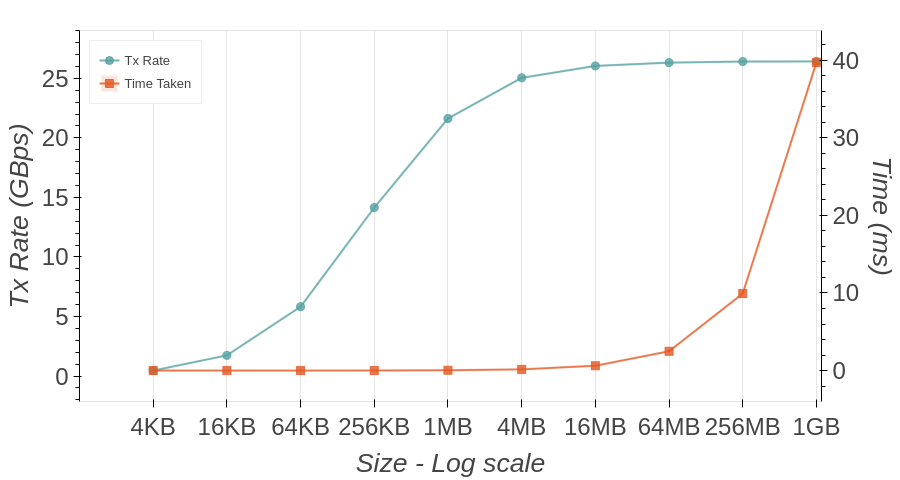
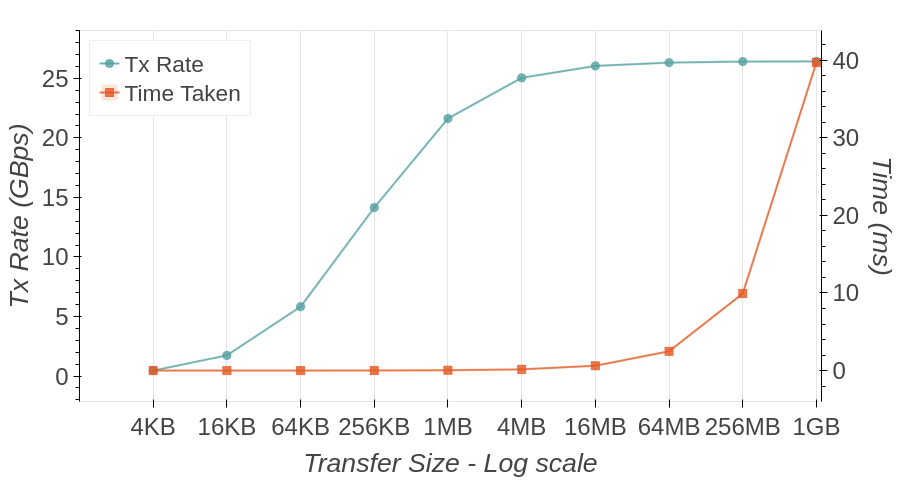
Address Margo's comments

Changed region(s): [[0.3422, 0.9375, 0.6844, 1.0], [0.0933, 0.0938, 0.28, 0.2188]]

diff --git a/chapters/interconnect-sc/store-ops/challenges.tex b/chapters/interconnect-sc/store-ops/challenges.tex
@@ -4,17 +4,18 @@
 
 \subsubsection{Determining the right PCIe resource and instruction combination}
 
-Of the transaction types outlined in \Cref{tab:pcie-transaction-types}, a software application can only generate configuration read and write and memory read and write on a modern system that only has PCIe devices
+Of the transaction types outlined in \Cref{tab:pcie-transaction-types}, a software application can generate only configuration read and write and memory read and write on a modern system that only has PCIe devices
 \footnote{I/O reads and writes may be available if a legacy PCI device is attached.
 The software application does not control messages and Completions and, hence, can not be generated directly by the adversary.}.
-However, exploring only memory reads and writes as transactions an attacker can use is sufficient. 
-Memory reads, configuration reads, and configuration writes are non-posted transactions that follow the same ordering rule and, hence, would have the same behaviour on the interconnect.
+However, as memory reads, configuration reads, and configuration writes are all non-posted transactions, they all exhibit the same behaviour.
+As such, exploring only memory reads suffices for exploring all non-posted transactions.
+Similarly, exploring memory writes as transactions that an attacker can use suffices to explore all posted transactions. 
+
 
 To profile the execution time of memory \textit{load} and \textit{store} instructions, we use a program that follows the pseudocode outlined in \Cref{lst:pcie-mem-reads-v-writes}.
 As we can see in \Cref{fig:pcie-mem-reads-v-writes}, the execution time of memory loads (and consequently, non-posted transactions) increases linearly with the number of memory loads issued.
 Each \textit{load} instruction takes about 2000 cycles, which is 625ns on a processor with a base clock of 3.2GHz.
-Most of the 625ns latency is composed of PCIe transfer time \cite{neugebauer2018understanding}.
-This is because a \textit{load} operation has to wait for a previous \textit{load} operation to complete 
+Most of the 625ns latency is composed of PCIe transfer time \cite{neugebauer2018understanding}, because a \textit{load} operation has to wait for a previous \textit{load} operation to complete 
 \footnote{While this is not enforced by PCIe ordering rules, it may be enforced by the proprietary PCIe controller implementation.}.
 Since each \textit{load} instruction must wait for the previous one to complete, the attacker cannot guarantee a packet is always ready in the PCIe controller for transmission when the victim is simultaneously transmitting.
 However, a memory store (and hence a posted transaction) does not have to wait for a previous store to complete.
@@ -22,9 +23,10 @@ As such, we determine that memory stores are the correct type of transaction for
 
 \begin{figure}[!htb]
     \centering
-    \includegraphics[width=0.8\columnwidth]{figures/interconnect-sc/store-ops/pcie_mem_reads_v_writes.png}
+    \includegraphics[width=\columnwidth]{figures/interconnect-sc/store-ops/pcie_mem_reads_v_writes.png}
     \caption{Comparison: PCIe memory reads vs writes}
     \label{fig:pcie-mem-reads-v-writes}
+    % 2025-03-01_15-15
 \end{figure}
 
 \begin{minipage}{\textwidth}
@@ -45,8 +47,8 @@ To fix this, the attacker needs a mechanism that can issue as many \textit{store
 
 To measure the completion time of a \textit{store} operation which is issued out-of-order, we make use of two key insights:
 
-\textit{First}, the CPU core would need to keep track of all instructions executed out-of-order so that they are retired in program order.
-Keeping this track would require a scheduler and a buffer in the hardware, which would have a limited and fixed size.
+\textit{First}, the CPU core needs to keep track of all instructions executed out-of-order so that they are retired in program order.
+Keeping track of this requires a scheduler and a buffer in the hardware, which would have a limited and fixed size.
 The AMD CPU has four schedulers as described in \Cref{subsubsec:interconnect-sc-background-cpu-arch-pipelines}. Each scheduler has a fixed number of instruction slots, $size_{sched}$
 \footnote{AMD Zen 3 schedulers have $\sim$22-24 slots per scheduler \cite{gast2023squip}.}.
 In addition, for tracking \textit{load} and \textit{store} operations that are in flight, the CPU also has a load-store queue (LSQ), with a fixed number of slots for loads ($size_{ldq} = 72$) and for stores ($size_{stq} = 64$) \cite{amd_7003_software_optimization_guide}.
@@ -65,7 +67,7 @@ As the AMD CPU can issue 2 \textit{store} instructions per cycle \cite{amd_7003_
 For $size_{sched} = 24$ and $size_{stq} = 64$, $t_{cpu} = 68~cycles$.
 % \footnote{Hence, if $size_{sched} = 24$, $N = 3 * 24 + 64 = 136$, and $t_{cpu} = N/2 = 68~cycles$.}.
 
-Now, after the initial $N$ stores, if we issue a continuous stream of (\textit{timer}...\textit{store}) pairs, the \textit{timer} from the pair will only be executed once a previous \textit{store} retires.
+Now, after the initial $N$ stores, if we issue a continuous stream of (\textit{timer}...\textit{store}) pairs, the \textit{timer} from the pair will be executed only after a previous \textit{store} retires.
 As this \textit{timer} instruction will be executed immediately (out of order with the other stores), the \textit{store} in this pair will almost immediately occupy the now available scheduler slot, blocking the next \textit{timer}.
 Thus, the difference in the results of the two \textit{timer} instructions reflects the variation in retirement times of consecutive \textit{store} instructions.
 As the retirement times of the \textit{store} instructions are impacted by the PCIe transaction time, the attacker can use this mechanism to determine the presence or absence of victim traffic on PCIe.

diff --git a/chapters/interconnect-sc/background/cpu-arch.tex b/chapters/interconnect-sc/background/cpu-arch.tex
@@ -2,8 +2,8 @@
 \label{subsec:interconnect-sc-background-cpu-arch}
 
 Modern CPUs have many components, including execution units, caches, PCIe root complex, and DRAM controllers.
-Some subset of these components is always traversed when data is sent to or from the CPU to the PCIe endpoints.
-The behaviour of each component may impact how the side-channel attack is carried out.
+Some subset of these components is always traversed when data is sent between the CPU and PCIe endpoints.
+The behaviour of each component determines how a side-channel attack can be perpetrated.
 As such, it becomes necessary to understand all the components involved in a PCIe transaction.
 
 \begin{figure}[!htb]
@@ -16,8 +16,8 @@ As such, it becomes necessary to understand all the components involved in a PCI
 
 \Cref{fig:amd-cpu} shows a high-level overview of the architecture of the AMD EPYC Zen 3 processors.
 The figure shows the following components:
-\textbf{1) I/O:} The component that handles the input-output from the peripheral devices. This is where the PCIe communication happens.
-\textbf{2) UMC:} The Unified Memory Controller is the controller that communicates with the DRAM.
+\textbf{1) I/O:} The component that handles input-output from the peripheral devices. This is where PCIe communication happens.
+\textbf{2) UMC:} The Unified Memory Controller is the controller that communicates with DRAM.
 \textbf{3) CCD:} The Core Complex Dies are where the cores (execution units) and caches reside.
 \textbf{4) Infinity Fabric ($\infty$):} The interconnect that connects all of the components within the AMD CPU.
 
@@ -27,17 +27,17 @@ The figure shows the following components:
 Modern CPUs rely on executing multiple instructions simultaneously to maximise performance.
 To achieve this, the CPUs have a multi-stage pipeline with the following stages: 1) Fetch, 2) Decode, 3) Schedule and Execute, and 4) Retire.
 We provide a simplified view of the pipeline in the CPU cores of the AMD~EPYC~Zen~3 processors in \Cref{fig:amd-core} and a brief description of each of the stages below:\\
-\textbf{Fetch: } This stage fetches the next macro-op from the cache or the memory. 
+\textbf{Fetch: } This stage reads the next macro-op from the cache or the memory. 
 However, the next macro-op to be fetched may not be deterministic, given the program may contain branches. 
 In such cases, this stage also uses branch prediction to speculate on which instruction may be executed next and fetch that instruction.\\
-\textbf{Decode: } This stage involved decoding the fetched macro-op into one or more micro-ops, which are then forwarded to the next stages.\\
+\textbf{Decode: } This stage decomposes the fetched macro-op into the proper set of micro-operations, which are then forwarded to the next stages.\\
 \textbf{Schedule and Execute: } The scheduler(s) determine which instruction can be executed next based on the availability of the data that the instruction requires. 
 This ensures that a long-running instruction (e.g., where the data is unavailable) does not stall all other independent instructions that can be executed.
 As such, instructions here can be executed out of program order. 
 Once the instruction has finished execution and the output (if any) is available in the registers, the instruction is removed from the scheduler.
 As load and store are common but time-consuming instructions, this stage also consists of a load-store queue where pending load and store operations are held. \\
 % \footnote{In Zen 3 cores, the load/store unit has a capacity of 72 loads and 64 stores.}. \\
-\textbf{Retire: } This stage ensures that instructions are retired in the program order so that the program can remain oblivious to the out-of-order execution that occurred in the previous stage.
+\textbf{Retire: } This stage ensures that instructions are completed in the program order so that the program can remain oblivious to the out-of-order execution that occurred in the previous stage.
 
 \begin{figure}[!htb]
     \centering
@@ -49,7 +49,7 @@ As load and store are common but time-consuming instructions, this stage also co
 \subsubsection{PCIe transactions to/from CPU}
 \label{subsubsec:interconnect-sc-background-cpu-arch-pcie-transactions}
 
-A program running on the CPU can transfer data to the PCIe device/endpoint in two significant ways: 1) Memory operations via memory-mapped IO (MMIO) and 2) Direct memory access (DMA).
+A program running on the CPU can transfer data to the PCIe device/endpoint in two different ways: 1) Memory operations via memory-mapped IO (MMIO) and 2) Direct memory access (DMA).
 MMIO enables the CPU to map some memory region of the PCIe endpoint in the CPU's physical address space.
 Any process with the proper permissions can then map this memory within the process and perform normal \textit{load} or \textit{store} operations on this memory.
 However, this approach requires the execution units of the CPU to issue repeated \textit{load/store} instructions to copy data to the PCIe endpoint.

diff --git a/chapters/interconnect-sc/background/pcie.tex b/chapters/interconnect-sc/background/pcie.tex
@@ -1,10 +1,10 @@
 \subsection{PCIe}
 \label{subsec:interconnect-sc-background-pcie}
 
-Peripheral component interconnect express (PCIe) is a high-speed, low-latency packet-based communication protocol that connects peripherals like GPUs, FPGAs, storage devices, and networking devices to the CPU. 
+Peripheral component interconnect express (PCIe) is a high-speed, low-latency packet-based communication protocol that connects peripherals such as GPUs, FPGAs, storage devices, and networking devices to the CPU. 
 To support high bandwidth and low latency, PCIe supports multiple lanes, where each lane can send data in both directions.
 Most PCIe implementations support 1, 2, 4, 8, or 16 lanes, represented as PCIe x1 - x16
-\footnote{PCIe x32 exists but is rarely utilised in commercial systems.}.
+\footnote{PCIe x32 exists but is rarely used in commercial systems.}.
 
 The PCIe standard has evolved through multiple generations, each offering increased data transfer rates and improved efficiency for computing, networking, and storage applications.
 Each major revision of the PCIe standard doubles the bandwidth supported by PCIe.
@@ -13,9 +13,9 @@ While PCIe 6.0 continues this trend, it also adds many newer features, such as 2
 PCIe 6.0 also introduces data encryption for data in transit on the PCIe interconnect
 \footnote{Very few PCIe 5.0 devices are currently available in the market, and PCIe 6.0 is unavailable}.
 
-As PCIe protocol enables communication between the CPU and peripherals, it requires hardware support from the CPU in the form of the CPU's PCIe root complex.
+As the PCIe protocol enables communication between the CPU and peripherals, it requires hardware support from the CPU in the form of the CPU's PCIe root complex.
 However, as the PCIe root complex resides on the CPU die, providing an arbitrarily large number of PCIe lanes originating from the CPU to support an arbitrarily large number of peripheral devices becomes challenging.
-To alleviate this problem, PCIe utilises either a PCIe Switch or a platform controller hub (PCH) to form a tree-like topology.
+To alleviate this problem, PCIe uses either a PCIe Switch or a platform controller hub (PCH) to form a tree-like topology.
 A PCIe switch has one upstream port that connects to either the CPU's root complex or another PCIe switch but has multiple downstream ports, each of which can consist of more PCIe switches or endpoints to connect the peripherals.
 A PCH is usually integrated within the CPU and provides PCIe access to slower endpoints such as storage, USB ports, and slow network cards such as the one built into the motherboard.
 
@@ -26,13 +26,13 @@ A PCH is usually integrated within the CPU and provides PCIe access to slower en
     \label{fig:pcie-controller}
 \end{figure}
 
-Like network protocols, PCIe utilises a layered architecture consisting of the transaction, data link, and physical layers, which are implemented in a PCIe controller (see \Cref{fig:pcie-controller}).
+Like network protocols, PCIe uses a layered architecture consisting of the transaction, data link, and physical layers, which are implemented in a PCIe controller (see \Cref{fig:pcie-controller}).
 PCIe provides reliable transfer semantics in the data link layer, which relies on cyclic redundancy check (CRC) to detect errors and uses acknowledgements (ACKs) or negative acknowledgements (NACKs) to inform the sender to re-transmit failed packets.
 The transaction layer of PCIe supports a fixed set of transactions (see \Cref{tab:pcie-transaction-types}), each of which is one of the following three types:
 \textbf{Posted:} Transactions where no response is issued or expected. 
 \textbf{Non-posted:} Transactions where a response is required. 
 \textbf{Completions:} The response of a previous non-posted transaction.
-PCIe enforces strict ordering rules for each type, which we outline in \Cref{tab:pcie-transaction-ordering-rules}.
+PCIe enforces ordering rules for each type, which we outline in \Cref{tab:pcie-transaction-ordering-rules}.
 
 \begin{table}[!htb]
     \centering

diff --git a/chapters/interconnect-sc/store-ops.tex b/chapters/interconnect-sc/store-ops.tex
@@ -4,17 +4,19 @@
 There are two primary ways one can generate traffic on the PCIe link.
 1) CPU \textit{load} or \textit{store} instructions on memory-mapped PCIe configuration, device memory, or I/O address space, and 
 2) direct memory access (DMA) to copy data between the PCIe device memory and the DRAM.
-In this section, we discuss how to use CPU instructions to generate the traffic and defer the discussion of generating traffic via DMA to \Cref{sec:interconnect-sc-dma}.
-In this section, we also answer \textbf{RQ1}, ``Is it possible to create contention in PCIe links without the adversary saturating the PCIe bandwidth?''.
+We now discuss how to use CPU instructions to generate the traffic and defer the discussion of generating traffic via DMA to \Cref{sec:interconnect-sc-dma}.
+We also answer \textbf{RQ1}, ``Is it possible to create contention in PCIe links without the adversary saturating the PCIe bandwidth?''.
 
 An adversary can generate traffic from the CPU by mapping a PCIe device resource to an application running on the CPU and issuing load or store operations on the mapped memory.
 Each load/store operation will be buffered in the PCIe controller until a transaction layer packet (TLP) is generated and ready to be transmitted.
 Two factors influence the actual transmission time of the packet:
 1) The ordering of the packets, as outlined in \Cref{tab:pcie-transaction-ordering-rules}, and
 2) The number of pending packets in the PCIe controller buffer that are not subject to any ordering rules relative to the current packet.
-If the packets do not have any relative ordering rule, it is reasonable to assume that the controller follows a first come, first serve policy.
-As such, any packet generated by the adversary can either be delayed due to existing traffic in the buffer or not, as there is no traffic in the buffer.
-This allows the attacker to observe the presence or absence of victim traffic without necessarily saturating the PCIe bandwidth.
+Suppose the packets do not have any relative ordering rule. 
+In that case, the ordering of the packets is solely dependent on the scheduling algorithm of the PCIe controller and can not be influenced by the attacker.
+As such, any packet generated by the adversary can be delayed due to existing traffic in the buffer based on the controller's scheduling policy and the ordering rules.
+If there is no traffic in the buffer, the adversary's packets will not be delayed.
+As a result, the attacker can detect the presence or absence of victim traffic without saturating PCIe bandwidth if the PCIe controller schedules packets without ordering constraints using a first-in-first-out (FIFO) or similar policy.
 
 To observe the victim traffic, the attacker should ensure they have a packet pending in the PCIe controller as frequently as possible.
 This ensures that the attacker can observe the presence or absence of victim traffic at a fine granularity.
@@ -25,4 +27,3 @@ To achieve these goals, the attacker must determine the correct combination of t
 \input{chapters/interconnect-sc/store-ops/challenges}
 \input{chapters/interconnect-sc/store-ops/measuring-store-time}
 % \input{chapters/interconnect-sc/store-ops/evaluation}
- 

diff --git a/chapters/interconnect-sc/background/side-channels-in-interconnects.tex b/chapters/interconnect-sc/background/side-channels-in-interconnects.tex
@@ -2,22 +2,22 @@
 \label{subsec:interconnect-sc-background-side-channels}
 
 Conceptually, a side-channel attack in interconnects is similar to a side-channel attack in internet networks. 
-The attacker creates congestion on a buffer in the communication path between the host (CPU) and the peripheral (e.g. GPU), such as the Rx/Tx buffers in the transaction layer implementation of the PCIe controller (see \Cref{fig:pcie-controller}).
+The attacker creates congestion on a buffer in the communication path between the host (CPU) and the peripheral (e.g., GPU), such as the Rx/Tx buffers in the transaction layer implementation of the PCIe controller (see \Cref{fig:pcie-controller}).
 The attacker then observes the delay in transmitting their traffic.
 This delay will be proportional to the data the victim transfers, which would help the attacker gain insight into the victim's traffic shape.
 
 However, a few differences between interconnects and traditional networks make it challenging to implement such an attack. \\
-\textit{First}, The bandwidth of interconnects like PCIe is at least an order of magnitude higher than that of internet networks.
+First, The bandwidth of interconnects such as PCIe are at least an order of magnitude higher than that of internet networks.
 While a typical bandwidth in an internet network is between 0.125 - 1.25 GBps 
 \footnote{Internet network bandwidth is typically measured in bits per second, while for interconnects, it is measured in bytes per second. Typical internet bandwidth is 1-10 Gbits per second.},
 PCIe 4.0 can operate at a rate of 32GBps.
-The high bandwidth makes it non-trivial to saturate the PCIe link. \\
-\textit{Second}, latency in PCIe is at least three orders of magnitude smaller than that of internet networks.
+The high bandwidth makes it difficult to saturate the PCIe link. \\
+Second, latency in PCIe is at least three orders of magnitude smaller than that of internet networks.
 Typically, internet latency is measured in milliseconds, while PCIe latency is measured in hundreds of nanoseconds to microseconds.
 The low latency makes it difficult for the attacker to measure the delays accurately. \\
-\textit{Third}, unlike internet networks, PCIe does not extend outside the machine of the host CPU.
+Third, unlike internet networks, PCIe does not extend outside the machine of the host CPU.
 This further adds to the challenge that the attacker needs to co-locate with the victim application on the same machine. \\
-\textit{Fourth}, the PCIe protocol has a fixed behaviour depending on the type of transaction.
+Fourth, the PCIe protocol has a fixed behaviour depending on the type of transaction.
 The attacker can not craft their own packets and can not change how the hardware issues the PCIe transactions.
 % Most transaction types can not generate enough traffic to even come close to saturating the bandwidth of PCIe. 
 % While saturating the bandwidth may not be necessary to create a side-channel attack, it would be useful if there is always at least one attacker packet in the buffer whenever the victim might transmit.

diff --git a/chapters/interconnect-sc/dma/challenges.tex b/chapters/interconnect-sc/dma/challenges.tex
@@ -4,7 +4,7 @@
 \subsubsection{Trade-off between small vs large DMA transfers}
 \label{subsubsec:interconnect-sc-dma-challenges-trade-off-small-v-large-tx}
 
-Since DMA controllers only provide the completion time of an entire DMA transfer, the adversary faces a trade-off when selecting the transfer size. 
+Since DMA controllers provide only the completion time of an entire DMA transfer, the adversary faces a trade-off when selecting the transfer size. 
 Small transfers enable fine-grained measurements of the presence/absence of victim traffic but cannot saturate a non-hierarchical PCIe link. 
 In contrast, large transfers provide coarse-grained measurements but may be able to saturate a non-hierarchical PCIe link, increasing the likelihood of interfering with the victim traffic.
 To determine the appropriate transfer size, we profile the execution time and bandwidth utilisation of PCIe across different DMA transfer sizes.
@@ -24,10 +24,10 @@ We measure the DMA transfer time using \textit{cudaEventRecord}, which uses a ti
 % However, \textit{cudaEventRecord} uses the timer from the GPU, which only has a granularity in the order of microseconds.
 % In addition, \textit{cudaEventRecord} returns the timer as a floating point number in the order of milliseconds, adding to the inaccuracy of the timer.
 
-As shown in \Cref{fig:bw-util-and-time-per-size}, the transfer time increases with the transfer size, while the transfer rate does not increase beyond 25GBps
+As shown in \Cref{fig:bw-util-and-time-per-size}, the transfer time increases with the transfer size, while the transfer rate never exceeds 25Gbps
 \footnote{While the theoretical limit of PCIe 4.0 x16 is 32GBps, the achievable transfer rate is less due to the protocol overheads \cite{neugebauer2018understanding}.},
-at a transfer size of 4MB.
-Therefore, if an adversary aims to saturate the PCIe bandwidth, they can optimise the transfer size at 4MB to strike a balance between fine-grained measurements and saturating the PCIe bandwidth.
+which is achieved once the transfer size reaches or exceeds 4MB.
+Therefore, if an adversary wants to saturate the PCIe bandwidth, they can set the transfer size to 4MB to strike a balance between fine-grained measurements and saturating the PCIe bandwidth.
 
 \begin{figure}[!htb]
     \centering

diff --git a/chapters/interconnect-sc/limitations.tex b/chapters/interconnect-sc/limitations.tex
@@ -2,11 +2,11 @@
 \label{sec:interconnect-sc-limitations}
 
 Our work has two limitations.
-First, in order to carry out a side-channel attack using \textit{store} operations (as outlined in \Cref{sec:interconnect-sc-store-ops}), the attacker requires superuser privileges.
+First, to carry out a side-channel attack using \textit{store} operations (as outlined in \Cref{sec:interconnect-sc-store-ops}), the attacker requires superuser privileges.
 The privileges are required as the attacker needs to map a PCIe resource, which is only available to the root user.
-However, it is reasonable to assume that the attacker has these privileges inside their own environment, such as the virtual machine they are running on.
+However, it is reasonable to assume that the attacker has these privileges inside their own environment, such as the virtual machine on which they are running.
 Second, our DMA-based contention mechanism is currently dependent on the FIFO-like scheduling policy that the current DMA controller on the Nvidia A100 GPU currently enforces.
-As such, if this policy changes in future GPUs, it is unclear whether the same mechanism would work to observe contention.
+As such, if this policy changes in future GPUs, it is unclear whether the same mechanism will work to observe contention.
 
 In addition, the discussion regarding the behaviour of various hardware components is based on a hypothesis made from the observed behaviour.
 It is not possible for us to verify the correctness of our hypothesis as the systems discussed here are proprietary and do not have available public information to verify our conclusions.

diff --git a/chapters/interconnect-sc/threat-model.tex b/chapters/interconnect-sc/threat-model.tex
@@ -2,10 +2,10 @@
 \label{sec:interconnect-sc-threat-model}
 
 We assume that a victim is transmitting data over PCIe to a PCIe endpoint device, such as a GPU.
-The attacker aims to disclose information about the data transferred over this PCIe link.
+The attacker's goal is to infer details about the data transferred over this PCIe link.
 We assume that the attacker and the victim are co-located on the same physical server, as two processes or two VMs, and have access to the same PCIe endpoint device.
 However, on the CPU side, the attacker is isolated from the victim, such that the attacker and the victim do not share cores, memory controllers or DRAM.
-On the PCIe endpoint device side, the attacker is also isolated from the victim using static partitioning such as the one offered by Nvidia's Multi-Instance GPU (MIG) functionality \cite{nvidia_mig_guide}.
+On the PCIe endpoint device side, the attacker is also isolated from the victim using static partitioning such as that offered by Nvidia's Multi-Instance GPU (MIG) functionality \cite{nvidia_mig_guide}.
 As such, the only shared component between the attacker and the victim is the communication pathway from the cores to the PCIe endpoint device, which consists of the PCIe root complex on the CPU, the PCIe controller on the endpoint device, and the PCIe link connecting the two.
 
 We assume that the attacker is a regular tenant application on the shared physical server and does not possess the ability to modify or compromise the underlying isolation mechanism (such as the hypervisor).

diff --git a/chapters/interconnect-sc/dma.tex b/chapters/interconnect-sc/dma.tex
@@ -1,14 +1,14 @@
 \section{Generating contention via DMA}
 \label{sec:interconnect-sc-dma}
 
-In this section, we discuss how an adversary can use direct memory access (DMA) to create contention in the buffers of a PCIe controller.
+We now move on to the case of detecting memory contention using direct memory access (DMA) transfers.
 We revisit \textbf{RQ1} to determine if an adversary can use this approach to observe the victim's traffic pattern. 
 In addition, we also provide an answer to \textbf{RQ2} by demonstrating that an adversary can create congestion on a non-hierarchical PCIe 4.0 link.
 
 A DMA controller can generate memory addresses and initiate memory \textit{load} or \textit{store} instructions that are executed in parallel, independent of the execution units of the CPU.
 The DMA controller receives commands specifying the source and destination addresses and the size of the data to copy.
 Once the data transfer is complete, it issues a notification of completion to the command issuer.
-As such, DMA controllers like those on Nvidia GPUs provide a mechanism to measure only the completion time of the entire DMA transfer, not the completion time of individual \textit{load} or \textit{store} instructions.
+As such, DMA controllers such as those on Nvidia GPUs provide a mechanism to measure only the completion time of the entire DMA transfer, not the completion time of individual \textit{load} or \textit{store} instructions.
 
 \input{chapters/interconnect-sc/dma/challenges}
 \input{chapters/interconnect-sc/dma/evaluation}

diff --git a/chapters/interconnect-sc/introduction.tex b/chapters/interconnect-sc/introduction.tex
@@ -1,9 +1,9 @@
 % \section{Introduction}
 % \label{sec:interconnect-sc-introduction}
 
-Interconnects facilitate high-speed and low-latency communication within and between processing units, memory, and peripheral devices like the GPU.
+Interconnects facilitate high-speed and low-latency communication within and between processing units, memory, and peripheral devices such as GPUs.
 While the evolution of interconnects has prioritised speed and latency, security has received less attention.
-On-chip interconnects do not have any encryption even today, while off-chip interconnects have only recently started focusing on encrypting the data in transit.
+On-chip interconnects do not have any encryption even today, while off-chip interconnects have only recently started focusing on encrypting data in transit.
 For example, data transmitted off-chip to memory or another NUMA node is now encrypted when the user is using Intel's SGX/TDX or has AMD's SME or SEV enabled \cite{intel_upi_encryption, amd_gen_5_arch}.
 PCIe, which is used to communicate with peripheral devices, only introduced encryption with the PCIe 6.0 specifications 
 \footnote{PCI-SIG has released an Engineering Change Notification (ECN) to optionally enable integrity and data encryption (IDE) for PCIe 5.0 \cite{pcie_ide_v5_ecn}}

diff --git a/chapters/conclusion/future_work/netshaper.tex b/chapters/conclusion/future_work/netshaper.tex
@@ -2,10 +2,10 @@
 \label{subsec:future-work-netshaper}
 
 \paragraph{Reducing the middlebox latencies.}
-The current prototype of NetShaper relies on the Linux kernel to provide the TCP/UDP functionalities. 
+The current prototype of NetShaper relies on the Linux kernel to provide TCP/UDP. 
 While this approach allows NetShaper to be deployed with superuser privileges, it adds to the end-to-end latency as the application data traverses the Linux kernel network stack multiple times.
 Reducing this latency is paramount for real-time applications.
-One approach to this would be to use kernel bypass mechanisms such as DPDK \cite{dpdk} and F-Stack \cite{fstack} to minimise the latency induced by the context switches between the kernel and user-space.
+One approach to this would be to use kernel bypass mechanisms such as DPDK \cite{dpdk} and F-Stack \cite{fstack} to reduce the latency induced by the context switches between the kernel and user-space.
 
 \paragraph{Multi-threaded \textit{Prepare} phase.}
 The current implementation is limited by the design of the \textit{Prepare} thread, which requires that there is only one \textit{Prepare} thread.

diff --git a/chapters/interconnect-sc/background/dma.tex b/chapters/interconnect-sc/background/dma.tex
@@ -21,7 +21,7 @@ This mode is used when the peripheral may take a lot of time to prepare the data
 While this approach ensures that the CPU is not blocked for long, it reduces the DMA transfer rate.
 Systems that require real-time processes, such as audio processing systems, use this mode to ensure that time-critical CPU operations are blocked predictably.
 
-\textbf{Interleaving Mode:} In this mode, the CPU maintains control of the system bus and only releases it when it does not need it.
+\textbf{Interleaving Mode:} In this mode, the CPU maintains control of the system bus and releases it only when it does not need it.
 As such, the device has to wait to perform the data transfer even when the data is prepared.
 While this approach ensures the CPU is never blocked, it results in a very slow DMA transfer rate.
 This approach was used by older peripheral devices, such as a floppy disk controller, to transfer data from the disk to the CPU DRAM lazily.
